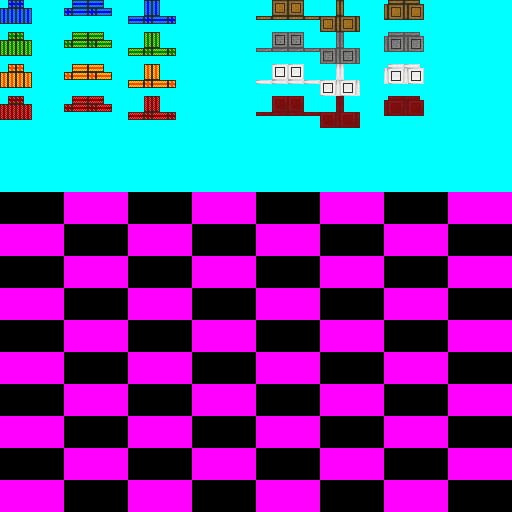
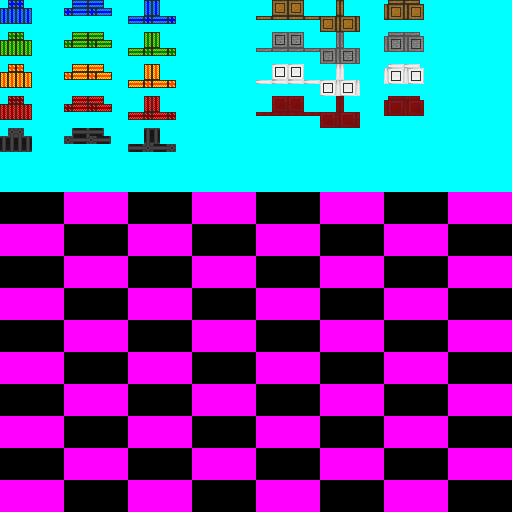
Temporary removed electric engine, added creative engine

Changed region(s): [[0.25, 0.25, 0.3438, 0.3125], [0.0, 0.25, 0.0625, 0.3125], [0.125, 0.25, 0.2188, 0.2812]]

diff --git a/dev/machine/engines/engineCreative.js b/dev/machine/engines/engineCreative.js
@@ -1,0 +1,62 @@
+var ENGINE_TYPE_CREATIVE = "Creative";
+
+// Creative Engine
+IDRegistry.genItemID("engineCreative");
+Item.createItem("engineCreative", "Creative Engine", {name: "engine_creative"});
+
+
+Item.registerUseFunction("engineCreative", function(coords, item, block){
+    var block = World.getBlock(coords.relative.x, coords.relative.y, coords.relative.z);
+    if (block.id == 0){
+        World.setBlock(coords.relative.x, coords.relative.y, coords.relative.z, BlockID.bcEngine);
+        World.addTileEntity(coords.relative.x, coords.relative.y, coords.relative.z).setEngineType(ENGINE_TYPE_CREATIVE);
+        Player.setCarriedItem(item.id, item.count - 1, item.data);
+    }
+});
+
+
+EngineModelPartRegistry.Add("engineCreative0", new ModelHelper.Texture("buildcraft_engine_atlas.png", {x: 256, y: 96}, {width: 512, height: 512}));
+EngineModelPartRegistry.Add("engineCreative1", new ModelHelper.Texture("buildcraft_engine_atlas.png", {x: 320, y: 96}, {width: 512, height: 512}));
+EngineModelPartRegistry.Add("engineCreative2", new ModelHelper.Texture("buildcraft_engine_atlas.png", {x: 384, y: 96}, {width: 512, height: 512}));
+
+
+ENGINE_TYPE_DATA[ENGINE_TYPE_CREATIVE] = {
+    defaultValues: {
+        generation: 20
+    },
+    
+    getGuiScreen: function(){
+        return null;
+    },
+    
+    getItemDrop: function(){
+        return [[ItemID.engineCreative, 1, 0]];
+    },
+    
+    engineTick: function(){
+        if (this.data.redstone){
+            this.setPower(0.4);
+        }
+        else{
+            this.setPower(0);
+            this.data.pistonDelay = 0;
+        }
+    },
+    
+    energyDeploy: function(params){
+        return this.data.generation;
+    },
+    
+    energyTick: function(type, src){
+    },
+    
+    click: function(id, count, data){
+        if (id == ItemID.bcWrench){
+            this.data.generation *= 2;
+            if(this.data.generation > 1280){
+                this.data.generation = 20;
+            }
+            Game.message("Switched to " + this.data.generation + " RF/t limit");
+        }
+    },
+};

diff --git a/dev/machine/engines/engines.js b/dev/machine/engines/engines.js
@@ -42,11 +42,16 @@ EngineModelPartRegistry.Add("trunkRed0", new ModelHelper.Texture("buildcraft_eng
 EngineModelPartRegistry.Add("trunkRed1", new ModelHelper.Texture("buildcraft_engine_atlas.png", {x: 64, y: 96}, {width: 512, height: 512}));
 EngineModelPartRegistry.Add("trunkRed2", new ModelHelper.Texture("buildcraft_engine_atlas.png", {x: 128, y: 96}, {width: 512, height: 512}));
 
+EngineModelPartRegistry.Add("trunkBlack0", new ModelHelper.Texture("buildcraft_engine_atlas.png", {x: 0, y: 128}, {width: 512, height: 512}));
+EngineModelPartRegistry.Add("trunkBlack1", new ModelHelper.Texture("buildcraft_engine_atlas.png", {x: 64, y: 128}, {width: 512, height: 512}));
+EngineModelPartRegistry.Add("trunkBlack2", new ModelHelper.Texture("buildcraft_engine_atlas.png", {x: 128, y: 128}, {width: 512, height: 512}));
+
 
 var ENGINE_HEAT_BLUE = "Blue";
 var ENGINE_HEAT_GREEN = "Green";
 var ENGINE_HEAT_ORANGE = "Orange";
 var ENGINE_HEAT_RED = "Red";
+var ENGINE_HEAT_BLACK = "Black";
 
 var ENGINE_HEAT_ORDER = [
     ENGINE_HEAT_BLUE,
@@ -359,9 +364,13 @@ var BUILDCRAFT_ENGINE_PROTOTYPE = {
         if (this.engineTick){
             this.engineTick();
         }
+        
         if (this.getHeatStage){
             this.data.heatStage = ENGINE_HEAT_ORDER[Math.min(3, Math.max(0, this.getHeatStage() || 0))];
+        }  else {
+            this.data.heatStage = ENGINE_HEAT_BLACK;
         }
+        
         if (this.data.position > 48){
             this.data.position -= 48;
             this.deployEnergyToTarget();

diff --git a/dev/machine/engines/engineElectric.js b/dev/machine/engines/engineElectric.js
@@ -2,7 +2,7 @@ var ENGINE_TYPE_ELECTRIC = "Electric";
 
 // Electric Engine
 IDRegistry.genItemID("engineElectric");
-Item.createItem("engineElectric", "Electric Engine", {name: "engine_electric"});
+Item.createItem("engineElectric", "Electric Engine", {name: "engine_electric"}, {isTech: true});
 
 Callback.addCallback("BC-ICore", function(ICore){
     Recipes.addShaped({id: ItemID.engineElectric, count: 1, data: 0}, [
